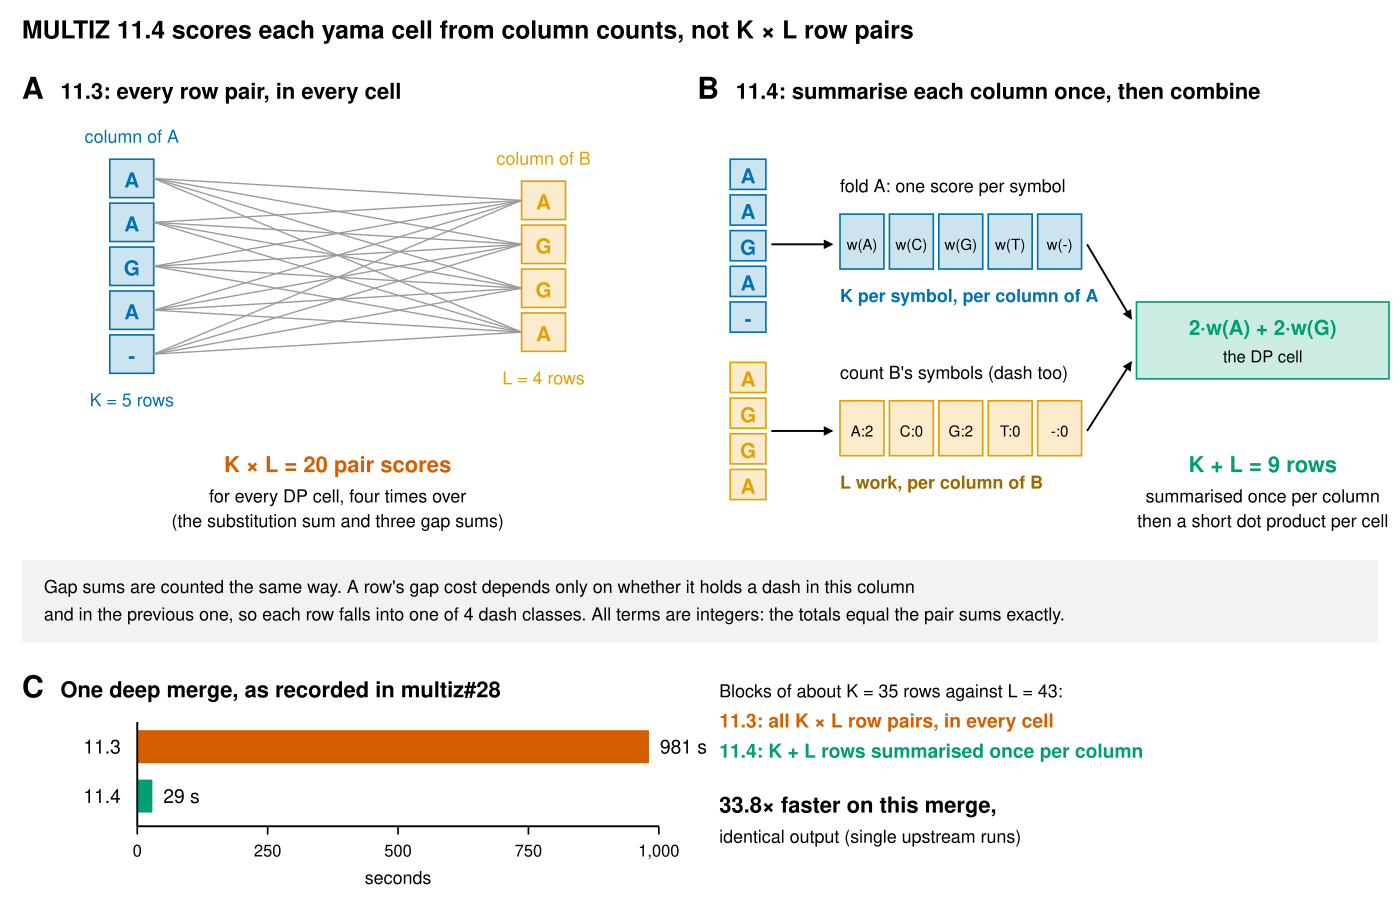
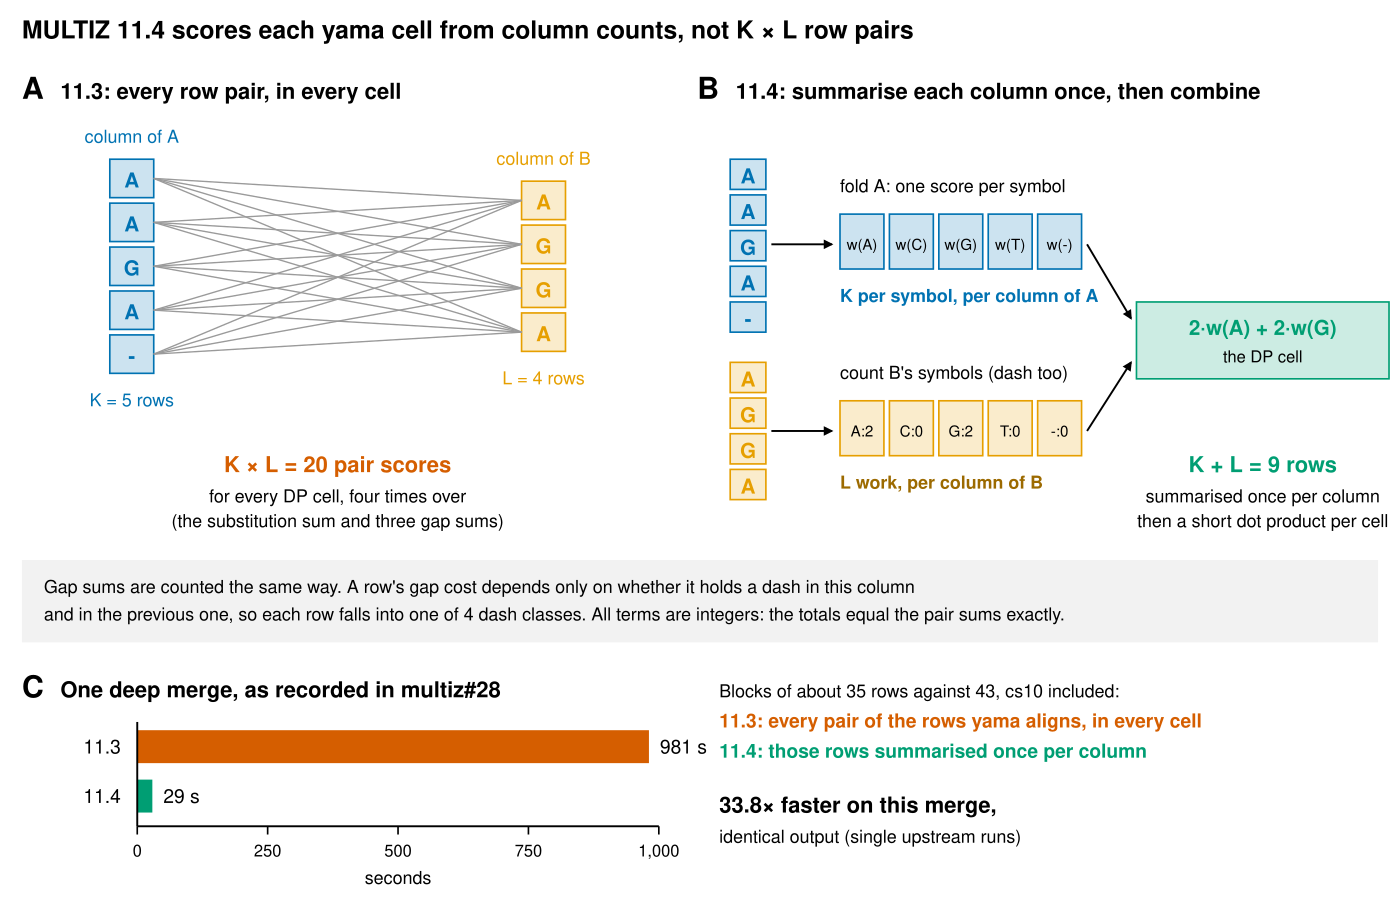
multiz-column-counts: round 21 cold-audit fixes
Figure 1 panel C no longer pairs K = 35, L = 43 with all K x L row pairs. 'Gap sums exact'
becomes 'equal to 11.3's'. pre_yama, not yama, sets cs10 aside. 'The toughest benchmark' is
quoted as the paper's words. The 216/217 citation and the 29-of-36 merge order are explained.

Changed region(s): [[0.5529, 0.7417, 0.86, 0.8344]]

diff --git a/multiz-column-counts/paper/multiz_column_counts.tex b/multiz-column-counts/paper/multiz_column_counts.tex
@@ -36,7 +36,7 @@ synthetic blocks of $K = L = 128$ rows, \code{yama} itself ran about a thousand 
 times faster, with identical output. On these blocks the rest of the time is now spent scoring the merged blocks,
 which still visits every row pair. The idea is not new. Scoring a column from symbol counts is a profile, Gotoh
 counted gap states per column to make aligning groups of sequences much less dependent on their sizes, and Kececioglu
-and Zhang aligned two alignments under this gap model with work per cell that does not grow with their depth. Scoring columns from symbol counts came from profile aligners, and keeping the gap sums exact came from reading how \code{yama} charges gaps. A profile of one deep merge showed where it would pay. We found the papers of Gribskov and colleagues, Gotoh, and Kececioglu and Zhang only afterwards. This note records how the change was found,
+and Zhang aligned two alignments under this gap model with work per cell that does not grow with their depth. Scoring columns from symbol counts came from profile aligners, and keeping the gap sums equal to 11.3's came from reading how \code{yama} charges gaps. A profile of one deep merge showed where it would pay. We found the papers of Gribskov and colleagues, Gotoh, and Kececioglu and Zhang only afterwards. This note records how the change was found,
 what it computes, where it comes from, and what it measured.
 \end{abstract}
 
@@ -50,10 +50,10 @@ substitution scores of all $K \times L$ row pairs. Gaps are charged by Altschul'
 graph model of Myers and Miller~\cite{myers1989} as Chao, Hardison and Miller modified it for those costs~\cite{chao1994}. Release 11.3 computed each cell's substitution
 sum and its three gap sums with loops over all $K \times L$ row pairs.
 
-That cost grows with the product of the depths. Deep blocks are what a large panel produces. In a 217-genome alignment of \emph{Cannabis sativa}, the cs10 reference and 216 other assemblies, one merge aligned 2,303 blocks of about 35 rows to 4,359 blocks of about 43~\cite{multiz28}. In 11.3, every cell visited each pair of rows it aligned, four times. \code{yama} sets the shared cs10 row aside and aligns it to the result in a second call. The pull request records
+That cost grows with the product of the depths. Deep blocks are what a large panel produces. In a 217-genome alignment of \emph{Cannabis sativa} assemblies, cs10 and 216 others, one merge aligned 2,303 blocks of about 35 rows to 4,359 blocks of about 43~\cite{multiz28}. The pull request counts the 216 queries. In 11.3, every cell visited each pair of rows it aligned, four times. Its caller, \code{pre\_yama}, sets the shared cs10 row aside, so the first call aligns one row fewer from each block, and a second call aligns cs10 to the result. The pull request records
 that \code{yama} took 98 percent of that merge's run time~\cite{multiz28}. That profile was kept: a \code{gprof} build of 11.3 spent
 98.1 percent of 950\,s in \code{yama} (\code{measurements/gprof\_deepmerge\_v11.3.txt}). The host and its other load
-were not recorded. Scoring columns from symbol counts came from profile aligners, and keeping the gap sums exact came from reading how \code{yama} charges gaps. The profile showed that \code{yama} was where it would pay.
+were not recorded. Scoring columns from symbol counts came from profile aligners, and keeping the gap sums equal to 11.3's came from reading how \code{yama} charges gaps. The profile showed that \code{yama} was where it would pay.
 
 \section{The change}
 
@@ -190,7 +190,7 @@ build of 11.4 ran the whole piece, all 215 merges, with output identical to the 
 \code{yama} (\code{measurements/gprof\_wholepiece\_v11.4.txt}). A second run agreed within 0.1 percentage points, and a third, from the recipe in Methods, gave 54 and 43 percent.
 Per merge, from the second run (\code{measurements/wholepiece\_permerge\_v11.4.tsv}, one row per \code{multiz}
 process in the order they ran), \code{mafScoreRange} led in 29 of the 215 merges and \code{yama} in the other 186.
-All 29 are among the last 36 merges. These shares cover \code{multiz} alone.
+All 29 are among the last 36 of the 215 merges to run. These shares cover \code{multiz} alone.
 \code{roast} also runs \code{maf\_project}, which calls \code{mafScoreRange} too and was not profiled, and how the
 rest of the wall time divides, including library and system time that \code{gprof} does not sample, was not
 measured.
@@ -222,7 +222,7 @@ and Kececioglu state the bound as $O(kn + n^2)$~\cite{wheeler2007}. Release 11.4
 Exact gap counting is what makes the general problem hard. With linear gap costs counted exactly, aligning two
 alignments under the sum-of-pairs objective is NP-complete~\cite{kececioglu2004,ma2003}. Release 11.4 does not touch
 that problem. It computes \code{yama}'s existing objective, quasi-natural gaps included, exactly and faster. That
-objective is itself an approximation. Kececioglu and Starrett found the pessimistic recurrence's own score up to 1.02 percent and its gap count up to 31.63 percent from the exact optimum (0.52 and 20.04 percent for the alignment it returns), on four 12-sequence protein benchmarks, each split every way into two alignments (their Tables~3 and~4). All four maxima are on rh12, the benchmark they call the toughest, where the means were 0.78 and 16.51 percent for the recurrence and 0.04 and 0.63 percent for the alignment it returns. We know of no measurement of this error for DNA or under \code{yama}'s scores, which charge 400 to open a gap, about four times a match, and we did not search for one. Within a progressive aligner that merges along a minimum spanning tree, Wheeler and Kececioglu found pessimistic merging nearly as accurate as exact merging on three protein benchmark suites, BAliBASE (up to 40 sequences), SABmark (up
+objective is itself an approximation. Kececioglu and Starrett found the pessimistic recurrence's own score up to 1.02 percent and its gap count up to 31.63 percent from the exact optimum (0.52 and 20.04 percent for the alignment it returns), on four 12-sequence protein benchmarks, each split every way into two alignments (their Tables~3 and~4). All four maxima are on rh12, whose 20.04 percent is the error they report on ``the toughest benchmark''. There the means were 0.78 and 16.51 percent for the recurrence and 0.04 and 0.63 percent for the alignment it returns. We know of no measurement of this error for DNA or under \code{yama}'s scores, which charge 400 to open a gap, about four times a match, and we did not search for one. Within a progressive aligner that merges along a minimum spanning tree, Wheeler and Kececioglu found pessimistic merging nearly as accurate as exact merging on three protein benchmark suites, BAliBASE (up to 40 sequences), SABmark (up
 to 25) and PALI (at least 7). Their SPS accuracy, averaged over the three suites, was 71.6 for exact merging and 70.9 for pessimistic merging~\cite{wheeler2007}. Release 11.4 inherits that approximation
 unchanged.
 

diff --git a/multiz-column-counts/paper/make_figure1.py b/multiz-column-counts/paper/make_figure1.py
@@ -125,9 +125,9 @@ CY = 254
 text(8, CY, "C", 11, weight="bold")
 text(22, CY, "One deep merge, as recorded in multiz#28", 8, weight="bold")
 
-text(262, CY, f"Blocks of about K = {MERGE_ROWS_A} rows against L = {MERGE_ROWS_B}:", 6.5)
-text(262, CY + 11, "11.3: all K × L row pairs, in every cell", 7, weight="bold", fill=VERMILION)
-text(262, CY + 22, "11.4: K + L rows summarised once per column", 7, weight="bold", fill=GREEN)
+text(262, CY, f"Blocks of about {MERGE_ROWS_A} rows against {MERGE_ROWS_B}, cs10 included:", 6.5)
+text(262, CY + 11, "11.3: every pair of the rows yama aligns, in every cell", 7, weight="bold", fill=VERMILION)
+text(262, CY + 22, "11.4: those rows summarised once per column", 7, weight="bold", fill=GREEN)
 text(262, CY + 42, f"{MERGE_S_113 / MERGE_S_114:.1f}× faster on this merge,", 8, weight="bold")
 text(262, CY + 53, "identical output (single upstream runs)", 6.5)
 bx0, bw, top = 50, 190, CY + 12                          # zero baseline at bx0, bw points = 1000 s

diff --git a/multiz-column-counts/README.md b/multiz-column-counts/README.md
@@ -23,7 +23,7 @@ the same K × L took times within about 20 percent of each other. Thinner shapes
 
 The idea is not new. Scoring a column from symbol counts is a profile (Gribskov et al. 1987), Gotoh (1994) counted gap
 states per column between groups of sequences, and Kececioglu and Zhang (1998) aligned two alignments under this gap
-model in essentially O(mn) time. Scoring columns from symbol counts came from profile aligners and exact gap sums from reading how `yama` charges gaps. A profile of one deep merge showed where it would pay, and the literature was checked afterwards ([`measurements/prior_art_search.md`](measurements/prior_art_search.md)).
+model in essentially O(mn) time. Scoring columns from symbol counts came from profile aligners and gap sums equal to 11.3's from reading how `yama` charges gaps. A profile of one deep merge showed where it would pay, and the literature was checked afterwards ([`measurements/prior_art_search.md`](measurements/prior_art_search.md)).
 
 ## Reproduce
 

diff --git a/multiz-column-counts/measurements/prior_art_search.md b/multiz-column-counts/measurements/prior_art_search.md
@@ -3,7 +3,7 @@
 This is a rewritten public copy of the author's working search record, revised after a review the same day. The
 revision is recorded in the addendum at the end.
 
-Scoring columns from symbol counts came from profile aligners, and keeping the gap sums exact came from reading how `yama` charges gaps. A profile (`yama` took 98% of one deep merge) showed where it would pay. No literature search was run before the change shipped in multiz 11.4. This is the first. Web search (US), the Europe PMC REST API, and CrossRef for every DOI.
+Scoring columns from symbol counts came from profile aligners, and keeping the gap sums equal to 11.3's came from reading how `yama` charges gaps. A profile (`yama` took 98% of one deep merge) showed where it would pay. No literature search was run before the change shipped in multiz 11.4. This is the first. Web search (US), the Europe PMC REST API, and CrossRef for every DOI.
 
 | query | what it found |
 |---|---|
